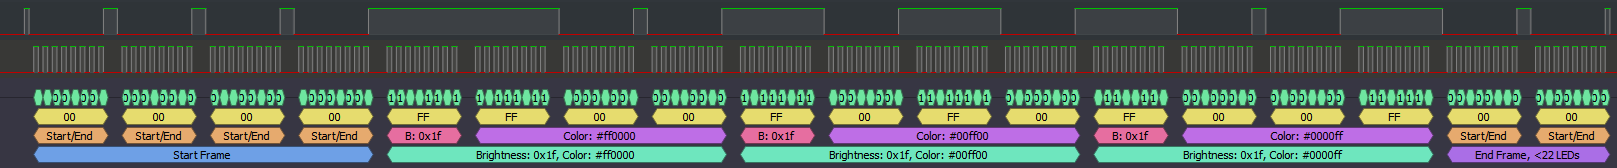
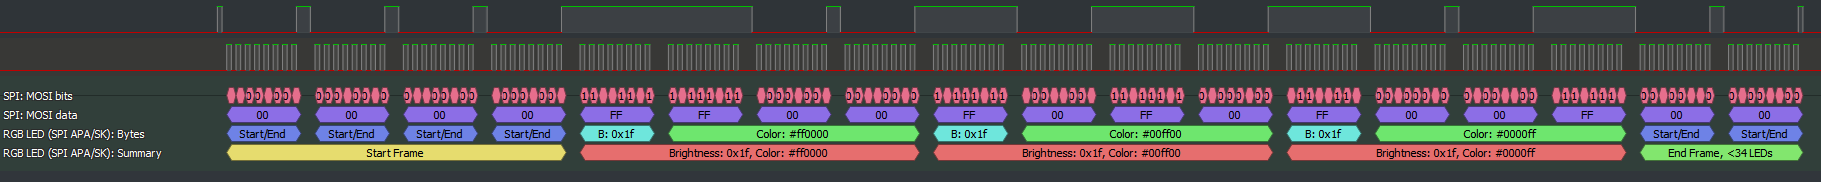
Fix end frame calculation

diff --git a/Sigrok Decoder/rgb_led_apa/pd.py b/Sigrok Decoder/rgb_led_apa/pd.py
@@ -20,35 +20,6 @@
 ## along with this program; if not, see <http://www.gnu.org/licenses/>.
 ##
 
-## End frame length calculation formula:
-## https://github.com/pololu/apa102-arduino/blob/master/APA102.h
-
-## Copyright (c) 2015-2017 Pololu Corporation.  For more information, see
-
-## http://www.pololu.com/
-## http://forum.pololu.com/
-
-## Permission is hereby granted, free of charge, to any person
-## obtaining a copy of this software and associated documentation
-## files (the "Software"), to deal in the Software without
-## restriction, including without limitation the rights to use,
-## copy, modify, merge, publish, distribute, sublicense, and/or sell
-## copies of the Software, and to permit persons to whom the
-## Software is furnished to do so, subject to the following
-## conditions:
-
-## The above copyright notice and this permission notice shall be
-## included in all copies or substantial portions of the Software.
-
-## THE SOFTWARE IS PROVIDED "AS IS", WITHOUT WARRANTY OF ANY KIND,
-## EXPRESS OR IMPLIED, INCLUDING BUT NOT LIMITED TO THE WARRANTIES
-## OF MERCHANTABILITY, FITNESS FOR A PARTICULAR PURPOSE AND
-## NONINFRINGEMENT. IN NO EVENT SHALL THE AUTHORS OR COPYRIGHT
-## HOLDERS BE LIABLE FOR ANY CLAIM, DAMAGES OR OTHER LIABILITY,
-## WHETHER IN AN ACTION OF CONTRACT, TORT OR OTHERWISE, ARISING
-## FROM, OUT OF OR IN CONNECTION WITH THE SOFTWARE OR THE USE OR
-## OTHER DEALINGS IN THE SOFTWARE.
-
 import sigrokdecode as srd
 
 class Decoder(srd.Decoder):
@@ -124,9 +95,10 @@ class Decoder(srd.Decoder):
                 pass
 
             try:
+                # End frame length calculation from: https://github.com/pololu/apa102-arduino/blob/master/APA102.h
                 endLength=len(self.nullStarts)-4 #subtract 4 for next start
                 ledsTerminated=endLength*16+1
-                self.put(self.nullStarts[0],self.nullEnds[-5], self.out_ann, [6, ['End Frame, <%x LEDs' % (ledsTerminated+1), 'End Frame','EF','E']])
+                self.put(self.nullStarts[0],self.nullEnds[-5], self.out_ann, [6, ['End Frame, <%d LEDs' % (ledsTerminated+1), 'End Frame','EF','E']])
             except:
                 pass
 
